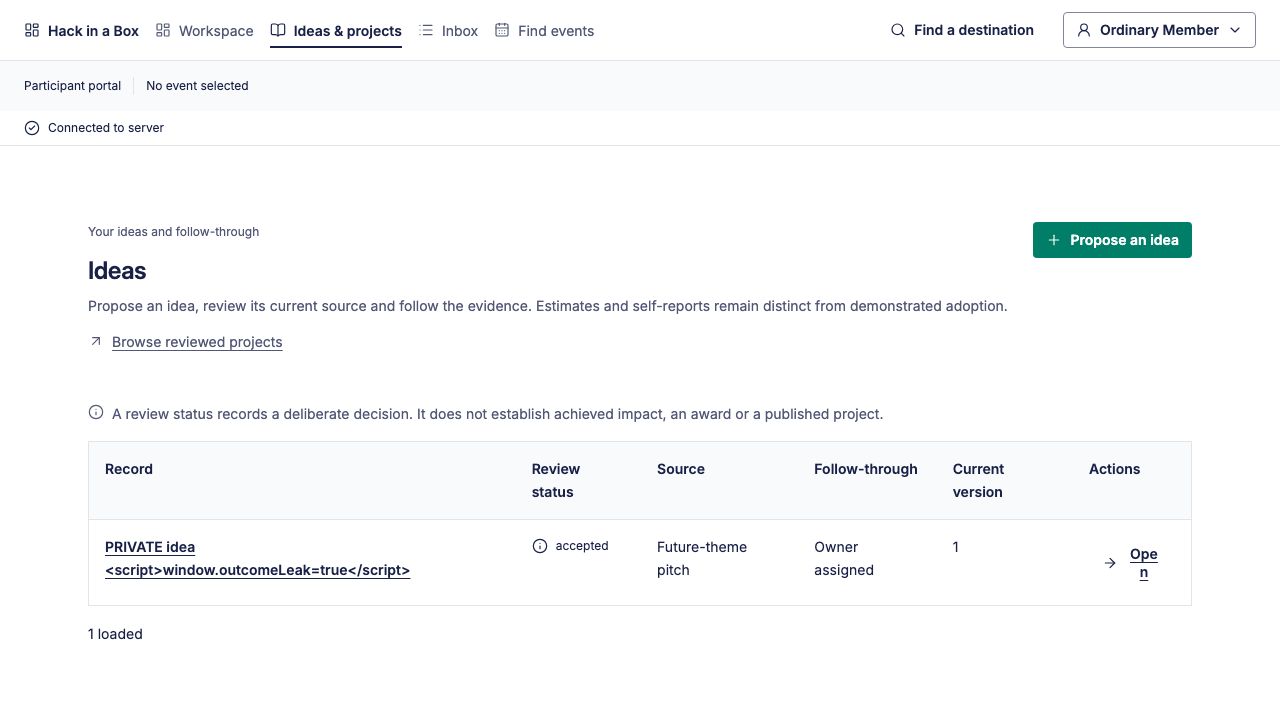
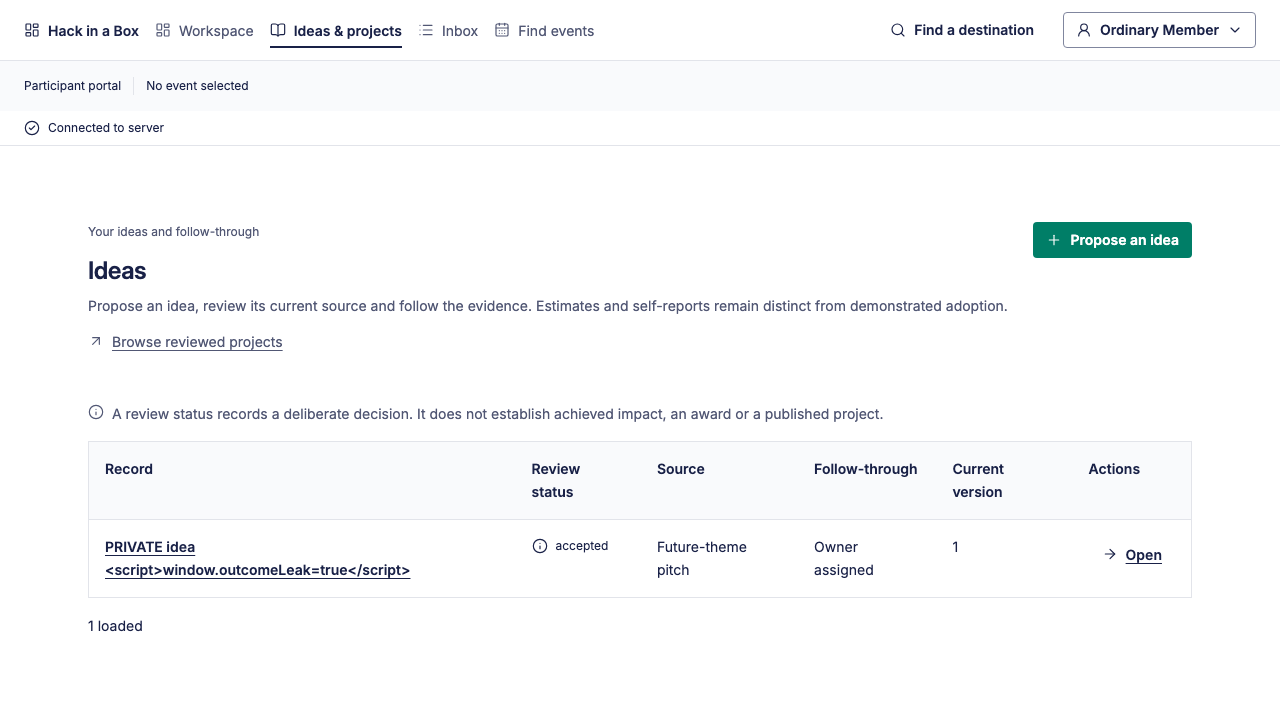
fix(ui): keep outcome actions readable and simplify review copy

diff --git a/web/src/outcome-publication.tsx b/web/src/outcome-publication.tsx
@@ -59,6 +59,6 @@ function PublicationEditor(props: OutcomeProps & { current: Publication | null; 
   return <section aria-label="Reviewed project publication"><h3>Review public fields</h3><p>Current review: {props.current?.state ?? 'No publication draft'} · Published version: {props.current?.published_version ?? 'None'}</p>{stale && <div role="status"><p>The source or publication changed. Review the current saved state before selecting a new base. Nothing is retargeted or published automatically.</p><Button type="button" variant="outline" disabled={operation.busy || operation.blocked || !props.available} onClick={() => { setBase(props.current); setSource(props.value.current_version) }}>Use displayed current source and publication base (keep draft fields)</Button></div>}
     <>{reviewed && <OutcomeDecision intent={reviewed} original={base ?? undefined} title="Project publication" confirmLabel={reviewed.command.action === 'save' ? 'Save publication draft' : reviewed.command.action === 'publish' ? 'Publish exactly reviewed fields' : 'Withdraw publication'} pending={operation.busy} blocked={operation.blocked} stale={stale || !props.available} correct={correctReview} confirm={() => void operation.write(reviewed)} />}<form hidden={!!reviewed} onSubmit={e => { e.preventDefault(); submit('save', (e.nativeEvent as SubmitEvent).submitter) }}><fieldset disabled={!props.available || operation.busy || operation.blocked || stale}><Label htmlFor="project-problem">Reviewed public problem</Label><Textarea id="project-problem" required maxLength={10000} value={fields.problem} onChange={e => change('problem', e.target.value)} /><Label htmlFor="project-solution">Reviewed public solution</Label><Textarea id="project-solution" required maxLength={10000} value={fields.solution} onChange={e => change('solution', e.target.value)} /><p>Private source text is not prefilled. Write only what is intentionally approved for the selected audience.</p><Label htmlFor="project-audience">Publication audience</Label><Select id="project-audience" value={fields.audience} onChange={e => change('audience', e.target.value as Fields['audience'])}><option value="organisation">Active organisation members</option><option value="event">Current authorised event readers</option>{props.value.provenance.team_id && <option value="team">Current source team</option>}</Select><Label className="checkbox-row"><Checkbox checked={fields.share_event_name} onChange={e => change('share_event_name', e.target.checked)} />Intentionally share the source event name</Label>{props.value.provenance.team_id && <Label className="checkbox-row"><Checkbox checked={fields.share_team_name} onChange={e => change('share_team_name', e.target.checked)} />Intentionally share the source team name</Label>}
       <fieldset><legend>Reviewed HTTPS project links</legend>{fields.links.map((link, index) => <div className="outcome-link" key={link.id}><Label htmlFor={`project-link-label-${link.id}`}>Link {index + 1} label</Label><Input id={`project-link-label-${link.id}`} required maxLength={240} value={link.label} onChange={e => change('links', fields.links.map((l, i) => i === index ? { ...l, label: e.target.value } : l))} /><Label htmlFor={`project-link-url-${link.id}`}>HTTPS URL</Label><Input id={`project-link-url-${link.id}`} type="url" required maxLength={2000} value={link.url} onChange={e => change('links', fields.links.map((l, i) => i === index ? { ...l, url: e.target.value } : l))} /><Button type="button" variant="outline" onClick={() => change('links', fields.links.filter((_, i) => i !== index))}>Remove link {index + 1}</Button></div>)}<Button type="button" variant="outline" disabled={fields.links.length >= 30} onClick={() => change('links', [...fields.links, { id: crypto.randomUUID(), label: '', url: '' }])}>Add reviewed link</Button></fieldset>
-      <fieldset><legend>Native media references</legend><p>Choose only an exact current released version from this source event. Every reader must also pass the media owner's current audience and consent policy; a project never grants media access.</p>{media.data?.pages.flatMap(p=>p.items).filter(item=>item.state==='released'&&item.consent_state==='reviewed').map(item=><Label className="checkbox-row" key={item.id}><Checkbox checked={fields.media.some(ref=>ref.id===item.id&&ref.version===item.version)} onChange={e=>change('media',e.target.checked?[...fields.media.filter(ref=>ref.id!==item.id),{event_id:props.value.provenance.event_id!,id:item.id,version:item.version}]:fields.media.filter(ref=>ref.id!==item.id))}/>{item.title} · {item.kind} · Version {item.version}</Label>)}{media.hasNextPage&&<Button type="button" variant="outline" onClick={()=>void media.fetchNextPage()}>More released media choices</Button>}{media.error&&<p role="status">Current media choices are unavailable. No media reference is invented or approved by this view.</p>}<p>References require the actual current published media owner and consent policy. Recording URLs, storage IDs, person tags and private source data are never copied into a project.</p>{fields.media.map((media, index) => <div key={`${media.id}:${index}`}><p className="identifier">Event {media.event_id} · Media {media.id} · Version {media.version}</p><Button type="button" variant="outline" onClick={() => change('media', fields.media.filter((_, i) => i !== index))}>Remove native media reference {index + 1}</Button></div>)}</fieldset>
+      <fieldset><legend>Reviewed event media</legend><p>Choose reviewed, released media from this event. People can open it only while their access and the current consent allow it.</p>{media.data?.pages.flatMap(p=>p.items).filter(item=>item.state==='released'&&item.consent_state==='reviewed').map(item=><Label className="checkbox-row" key={item.id}><Checkbox checked={fields.media.some(ref=>ref.id===item.id&&ref.version===item.version)} onChange={e=>change('media',e.target.checked?[...fields.media.filter(ref=>ref.id!==item.id),{event_id:props.value.provenance.event_id!,id:item.id,version:item.version}]:fields.media.filter(ref=>ref.id!==item.id))}/>{item.title} · {item.kind} · Version {item.version}</Label>)}{media.hasNextPage&&<Button type="button" variant="outline" onClick={()=>void media.fetchNextPage()}>More released media choices</Button>}{media.error&&<p role="status">Current media choices are unavailable. No media reference is invented or approved by this view.</p>}<p>Consent or access changes can make selected media unavailable. Publishing a project does not grant access to its media.</p>{fields.media.map((media, index) => <div key={`${media.id}:${index}`}><p className="identifier">Event {media.event_id} · Media {media.id} · Version {media.version}</p><Button type="button" variant="outline" onClick={() => change('media', fields.media.filter((_, i) => i !== index))}>Remove reviewed media {index + 1}</Button></div>)}</fieldset>
       <Label htmlFor="publication-reason">Reason for this separate publication decision</Label><Textarea id="publication-reason" required maxLength={2000} value={reason} onChange={e => setReason(e.target.value)} /><div className="actions"><Button type="submit" icon="next" disabled={!reason.trim() || !navigator.onLine}>Review publication draft</Button><Button type="button" disabled={!base || base.state !== 'draft' || changed || !reason.trim() || !navigator.onLine} onClick={e => submit('publish', e.currentTarget)}>Review publication release</Button><Button type="button" variant="outline" disabled={!props.current?.published_version || !reason.trim() || !navigator.onLine} onClick={e => submit('withdraw', e.currentTarget)}>Review withdrawal</Button></div></fieldset></form></><CommandState value={operation} /></section>
 }

diff --git a/web/src/outcome-reviews.tsx b/web/src/outcome-reviews.tsx
@@ -54,7 +54,7 @@ function ReviewEditor(props: OutcomeProps & { id: string; days: 30 | 60 | 90; cu
   function submit(action: ReviewCommand['action'], initiatingControl?: HTMLElement | null) {
     setReviewed({ kind: 'review', outcomeID: props.value.id, reviewID: props.id, expected: base?.version ?? 0, command: { id: crypto.randomUUID(), action, reason, source_version: sourceVersion, schedule: action === 'save' ? { days: props.days, wall_time: wall.length === 16 ? `${wall}:00` : wall, timezone, dst_choice: fold, channels } : undefined, message: action === 'save' ? { subject, body } : undefined } }, initiatingControl)
   }
-  return <section className="fleet-outcome-section"><h3>Configure {props.days}-day checkpoint</h3><p>Days identify the nominal checkpoint. The explicit date below is the actual approved schedule, including any deliberate reschedule. Saving a draft sends nothing. An unresolved original delivery blocks replacement approval, including changing channels; rescheduling never resolves an unknown send. Approval binds the exact template, native current-owner selector, channels, provider revisions, source and privacy policy revision.</p>
+  return <section className="fleet-outcome-section"><h3>Configure {props.days}-day checkpoint</h3><p>Days identify the nominal checkpoint. The explicit date below is the actual approved schedule, including any deliberate reschedule. Saving a draft sends nothing. An unresolved original delivery blocks replacement approval, including changing channels; rescheduling never resolves an unknown send. Approval is for the current owner, chosen date and time, reviewed message and selected channels. Changes require a new review.</p>
     {stale && <div role="status"><p>The source or plan changed. Review the displayed current outcome and plan before deliberately using a new base.</p><Button type="button" variant="outline" disabled={operation.busy || operation.blocked || !props.available} onClick={() => { setBase(props.current); setSourceVersion(props.value.current_version) }}>Use displayed current source and plan as base (keep inputs)</Button></div>}
     <>{reviewed && <OutcomeDecision intent={reviewed} original={base ?? undefined} title="Owner review plan" confirmLabel={reviewed.command.action === 'save' ? 'Save review draft' : reviewed.command.action === 'approve' ? 'Approve exact review' : 'Cancel review'} pending={operation.busy} blocked={operation.blocked} stale={stale || !props.available} correct={correctReview} confirm={() => void operation.write(reviewed)} />}<form hidden={!!reviewed} onSubmit={e => { e.preventDefault(); submit('save', (e.nativeEvent as SubmitEvent).submitter) }}><fieldset disabled={!props.available || operation.busy || operation.blocked || stale}><Label htmlFor="review-timezone">Review timezone (IANA)</Label><Input id="review-timezone" required maxLength={100} value={timezone} onChange={e => { setTimezone(e.target.value); setChanged(true) }} /><Label htmlFor="review-wall">Actual local review date and time</Label><Input id="review-wall" required type="datetime-local" step="1" value={wall} onChange={e => { setWall(e.target.value); setChanged(true) }} /><Label htmlFor="review-fold">If this time occurs twice at a daylight-saving change</Label><Select id="review-fold" value={fold} onChange={e => { setFold(e.target.value as typeof fold); setChanged(true) }}><option value="">Require an unambiguous time</option><option value="earlier">Use the earlier occurrence</option><option value="later">Use the later occurrence</option></Select><fieldset><legend>Private owner channels</legend>{(['in_app', 'smtp'] as const).map(channel => { const provider = providers.data?.find(p => p.channel === channel); return <Label key={channel} className="checkbox-row"><Checkbox checked={channels.includes(channel)} onChange={e => { setChannels(e.target.checked ? [...channels, channel] : channels.filter(c => c !== channel)); setChanged(true) }} />{channel === 'in_app' ? 'In-app inbox' : 'Personal email'} — {provider ? provider.available ? 'Configured' : `Unavailable: ${provider.reason}` : 'Readiness not checked'}</Label> })}</fieldset><p>Teams is broadcast-only and is never an owner reminder channel. Email acceptance is not a claim that a person received or read a message.</p>{providers.error && <p role="status">Provider readiness could not be checked. Save a draft if needed; approval is disabled.</p>}<Label htmlFor="review-subject">Reviewed message subject</Label><Input id="review-subject" required maxLength={256} value={subject} onChange={e => { setSubject(e.target.value); setChanged(true) }} /><Label htmlFor="review-body">Reviewed plain-text message</Label><Textarea id="review-body" required maxLength={20000} rows={6} value={body} onChange={e => { setBody(e.target.value); setChanged(true) }} /><p>Allowed values: {'{{recipient.name}}'}, {'{{outcome.url}}'}, {'{{review.date}}'}. Draft event configuration and private evidence cannot be interpolated.</p><Label htmlFor="review-reason">Reason for this explicit review decision</Label><Textarea id="review-reason" required maxLength={2000} value={reason} onChange={e => setReason(e.target.value)} /><div className="actions"><Button type="submit" icon="next" disabled={!reason.trim() || !channels.length || !navigator.onLine}>Review plan draft</Button><Button type="button" disabled={!base || base.state !== 'draft' || changed || !ready || !reason.trim() || !navigator.onLine} onClick={e => submit('approve', e.currentTarget)}>Review plan approval</Button><Button type="button" variant="outline" disabled={!base || !reason.trim() || !navigator.onLine} onClick={e => submit('cancel', e.currentTarget)}>Review cancellation</Button></div></fieldset></form></><CommandState value={operation} /></section>
 }

diff --git a/web/src/outcome-decision.tsx b/web/src/outcome-decision.tsx
@@ -22,7 +22,7 @@ function PublicationReview({ fields }: { fields: Publication['fields'] }) {
   return <><dl className="fleet-outcome-facts"><div><dt>Reviewed problem</dt><dd>{fields.problem}</dd></div><div><dt>Reviewed solution</dt><dd>{fields.solution}</dd></div><div><dt>Approved audience</dt><dd>{fields.audience}</dd></div><div><dt>Share source event name</dt><dd>{fields.share_event_name ? 'Yes' : 'No'}</dd></div><div><dt>Share source team name</dt><dd>{fields.share_team_name ? 'Yes' : 'No'}</dd></div></dl><h5>Reviewed links</h5>{fields.links.length ? <ul>{fields.links.map(link => <li key={link.id}>{link.label} · {link.url}</li>)}</ul> : <p>No external links selected.</p>}<h5>Exact media references</h5>{fields.media.length ? <ul>{fields.media.map(media => <li key={media.id}>Event {media.event_id} · Media {media.id} · Version {media.version}</li>)}</ul> : <p>No media references selected.</p>}<p>Every reader must still pass current media audience and consent checks.</p></>
 }
 function ReviewPlan({ schedule, message, owner }: { schedule: Review['schedule']; message: Review['message']; owner?: string | null }) {
-  return <><dl className="fleet-outcome-facts"><div><dt>Native owner selector</dt><dd>{owner || 'Current eligible source owner, checked by the server'}</dd></div><div><dt>Nominal checkpoint</dt><dd>{schedule.days} days</dd></div><div><dt>Actual local date and time</dt><dd>{schedule.wall_time} ({schedule.timezone})</dd></div><div><dt>Daylight-saving overlap</dt><dd>{schedule.dst_choice || 'Require an unambiguous time'}</dd></div><div><dt>Private channels</dt><dd>{schedule.channels.join(', ')}</dd></div><div><dt>Reviewed subject</dt><dd>{message.subject}</dd></div><div><dt>Reviewed plain-text message</dt><dd className="outcome-prose">{message.body}</dd></div></dl><p>Approval binds the native current owner, exact template, provider, source and privacy revisions. Rescheduling never settles an unknown original delivery.</p></>
+  return <><dl className="fleet-outcome-facts"><div><dt>Review recipient</dt><dd>{owner || 'Current eligible idea owner'}</dd></div><div><dt>Nominal checkpoint</dt><dd>{schedule.days} days</dd></div><div><dt>Actual local date and time</dt><dd>{schedule.wall_time} ({schedule.timezone})</dd></div><div><dt>Daylight-saving overlap</dt><dd>{schedule.dst_choice || 'Require an unambiguous time'}</dd></div><div><dt>Private channels</dt><dd>{schedule.channels.join(', ')}</dd></div><div><dt>Reviewed subject</dt><dd>{message.subject}</dd></div><div><dt>Reviewed plain-text message</dt><dd className="outcome-prose">{message.body}</dd></div></dl><p>Approval is for the current owner, chosen date and time, reviewed message and selected channels. Changes require a new review. Rescheduling never settles an unknown original delivery.</p></>
 }
 export function OutcomeIntentSummary({ intent, original }: { intent: NativeIntent; original?: NativeResult }) {
   if (intent.kind === 'outcome') {

diff --git a/web/src/outcome-workspace.tsx b/web/src/outcome-workspace.tsx
@@ -66,7 +66,7 @@ function OutcomeDirectory({ eventID }: { eventID?: string }) {
             { id: 'source', label: 'Source', cell: value => value.definition.kind === 'pitch' ? 'Future-theme pitch' : 'Team outcome' },
             { id: 'owner', label: 'Follow-through', cell: value => value.owner_id ? 'Owner assigned' : 'No owner assigned' },
             { id: 'version', label: 'Current version', cell: value => value.current_version },
-          ]} actions={value => <Link className={buttonVariants({ variant: 'ghost' })} to="/ideas/$outcomeId" params={{ outcomeId: value.id }} aria-label={`Open ${value.definition.problem}`}><Icon name="next" />Open</Link>} />
+          ]} actions={value => <Link className={`${buttonVariants({ variant: 'ghost' })} fleet-outcome-open`} to="/ideas/$outcomeId" params={{ outcomeId: value.id }} aria-label={`Open ${value.definition.problem}`}><Icon name="next" />Open</Link>} />
           {!records.length && <p>No ideas are available in this view.</p>}
           <CollectionPagination source={{ kind: 'cursor', loaded: records.length, busy: listing.isFetchingNextPage, next: listing.hasNextPage ? () => void listing.fetchNextPage() : undefined }} />
         </>}
@@ -164,7 +164,7 @@ function ProjectDirectory() {
           { id: 'solution', label: 'Reviewed solution', essential: true, cell: value => value.solution },
           { id: 'status', label: 'Reviewed follow-up status', cell: value => <StatusBadge>{value.follow_up_status.replaceAll('_', ' ')}</StatusBadge> },
           { id: 'version', label: 'Publication version', cell: value => value.version },
-        ]} actions={value => <Link className={buttonVariants({ variant: 'ghost' })} to="/projects/$outcomeId" params={{ outcomeId: value.id }} aria-label={`Open ${value.problem}`}><Icon name="next" />Open</Link>} />
+        ]} actions={value => <Link className={`${buttonVariants({ variant: 'ghost' })} fleet-outcome-open`} to="/projects/$outcomeId" params={{ outcomeId: value.id }} aria-label={`Open ${value.problem}`}><Icon name="next" />Open</Link>} />
         {!records.length && <p>No permitted reviewed projects match this search.</p>}
         <CollectionPagination source={{ kind: 'cursor', loaded: records.length, busy: projects.isFetchingNextPage }} />
         {projects.hasNextPage && <Button icon="nextPage" variant="outline" disabled={projects.isFetchingNextPage} onClick={() => void projects.fetchNextPage()}>More reviewed projects</Button>}

diff --git a/web/e2e/outcomes.spec.ts b/web/e2e/outcomes.spec.ts
@@ -162,6 +162,14 @@ test('idea directory uses scoped Fleet records and explicit keyboard navigation 
   await expect(record).toBeHidden()
   await page.emulateMedia({ media: 'screen' })
   const open = page.getByRole('link', { name: 'Open PRIVATE idea <script>window.outcomeLeak=true</script>', exact: true })
+  const geometry = await open.evaluate(link => {
+    const text = [...link.childNodes].find(node => node.nodeType === Node.TEXT_NODE && node.textContent?.trim() === 'Open')
+    const range = document.createRange(); if (!text) throw new Error('Missing visible Open label'); range.selectNodeContents(text)
+    const lines = [...range.getClientRects()].filter(rect => rect.width > 0), cell = link.closest('td')?.getBoundingClientRect(), bounds = link.getBoundingClientRect()
+    return { lines: lines.length, insideCell: !cell || (bounds.left >= cell.left && bounds.right <= cell.right), insideLink: lines.every(rect => rect.left >= bounds.left && rect.right <= bounds.right) }
+  })
+  expect(geometry.lines).toBe(1); expect(geometry.insideCell).toBe(true); expect(geometry.insideLink).toBe(true)
+  expect(await page.evaluate(() => document.documentElement.scrollWidth)).toBeLessThanOrEqual(page.viewportSize()!.width)
   await open.focus(); await page.keyboard.press('Enter')
   await expect(page).toHaveURL(`/ideas/${outcomeID}`)
   await expect(page.getByRole('heading', { name: 'Idea and follow-through', exact: true })).toBeVisible()

diff --git a/web/src/design-system/outcomes.css b/web/src/design-system/outcomes.css
@@ -27,3 +27,5 @@
 .fleet-outcomes .fleet-review-flow :is(p,li,dd) { overflow-wrap: anywhere; }
 .fleet-outcomes .fleet-outcome-section ol > li { padding-block: var(--space-3); border-block-end: 1px solid var(--border); }
 @media (max-width: 48rem) { .fleet-outcome-facts > div { grid-template-columns: minmax(0, 1fr); gap: var(--space-1); } }
+
+.fleet-outcomes .fleet-outcome-open { white-space: nowrap; overflow-wrap: normal; min-width: max-content; flex-shrink: 0; }

diff --git a/docs/verification/fleet-outcomes/contract-map.md b/docs/verification/fleet-outcomes/contract-map.md
@@ -1,7 +1,7 @@
 # Ideas and outcome follow-through — #242 / UI-09
 
 This report describes the complete present UI implementation in PR #261, based
-on main `6e8ab511f00f3c3e8b63c91200a52637bee65119`. The native idea, outcome,
+on main `ea88901f7204a0a3a441ef03610e97e6b5297740`. The native idea, outcome,
 owner-plan, publication and released-project surfaces are rebuilt with the
 accepted Fleet foundations. Local acceptance work is complete; the frozen
 candidate still requires independent review and exact-head repository CI before
@@ -92,3 +92,19 @@ must be fixed and verified before readiness.
 #119 still owns missing archive/export backend work; #163 owns the additional
 cross-event showcase; #113 owns result/feedback release. This UI work does not
 claim any of those separate product deliverables complete.
+
+## Final visual review delta
+
+Initial paired frozen-source reviews at f6a70f6 reported Standards 0 / Spec 0.
+The subsequent visual inspection found a split static Open action label. The
+real text-range geometry assertion reproduced two lines before the scoped fix
+(`/private/tmp/fleet242-open-red.log`). After correction, **6/6 admin and 4/4
+participant focused desktop/mobile cases pass**, retaining keyboard navigation,
+within-cell text/link geometry, no overflow and no-write checks
+(`/private/tmp/fleet242-delta-{admin,public}.log`). Approval/media copy now
+explains owner/date/message/channel and current consent/access plainly; original
+unknown-send/replacement warnings remain. Lint and both production builds pass
+(`/private/tmp/fleet242-delta-{lint,build}.log`); the focused production review
+unit suite passes **4/4** (`/private/tmp/fleet242-delta-unit.log`). Only the affected AFTER directory
+and preparation images were refreshed; before/source evidence is unchanged.
+The final bounded delta and rebase still require independent review/exact-head CI.

diff --git a/docs/verification/fleet-outcomes/visual-evidence.md b/docs/verification/fleet-outcomes/visual-evidence.md
@@ -1,7 +1,7 @@
 # Actual Fleet outcomes before/after evidence
 
 Before: production app at `e9d7c4665a582feca6543718861ff56308d82fe9`.
-After: final PR #261 candidate based on `6e8ab511f00f3c3e8b63c91200a52637bee65119`.
+After: final PR #261 candidate based on `ea88901f7204a0a3a441ef03610e97e6b5297740`.
 
 Both builds use identical synthetic fixture data and device configurations. The
 baseline production source is unchanged; only fixture/capture files were copied.
@@ -33,3 +33,8 @@ The screenshot fixtures deliberately include inert hostile-looking source text.
 
 The [manifest](visual-manifest.json) records source/fixture/image SHA-256 values.
 Independent source/state/authority checks are recorded in the [contract map](contract-map.md).
+
+Final review delta: refreshed only AFTER directories (both portals/widths) and
+AFTER publication/owner-plan regions for the scoped one-line Open action and
+plain-language approval/media copy. BEFORE and AFTER source images remain the
+original matching captures. The manifest distinguishes this recapture generation.
